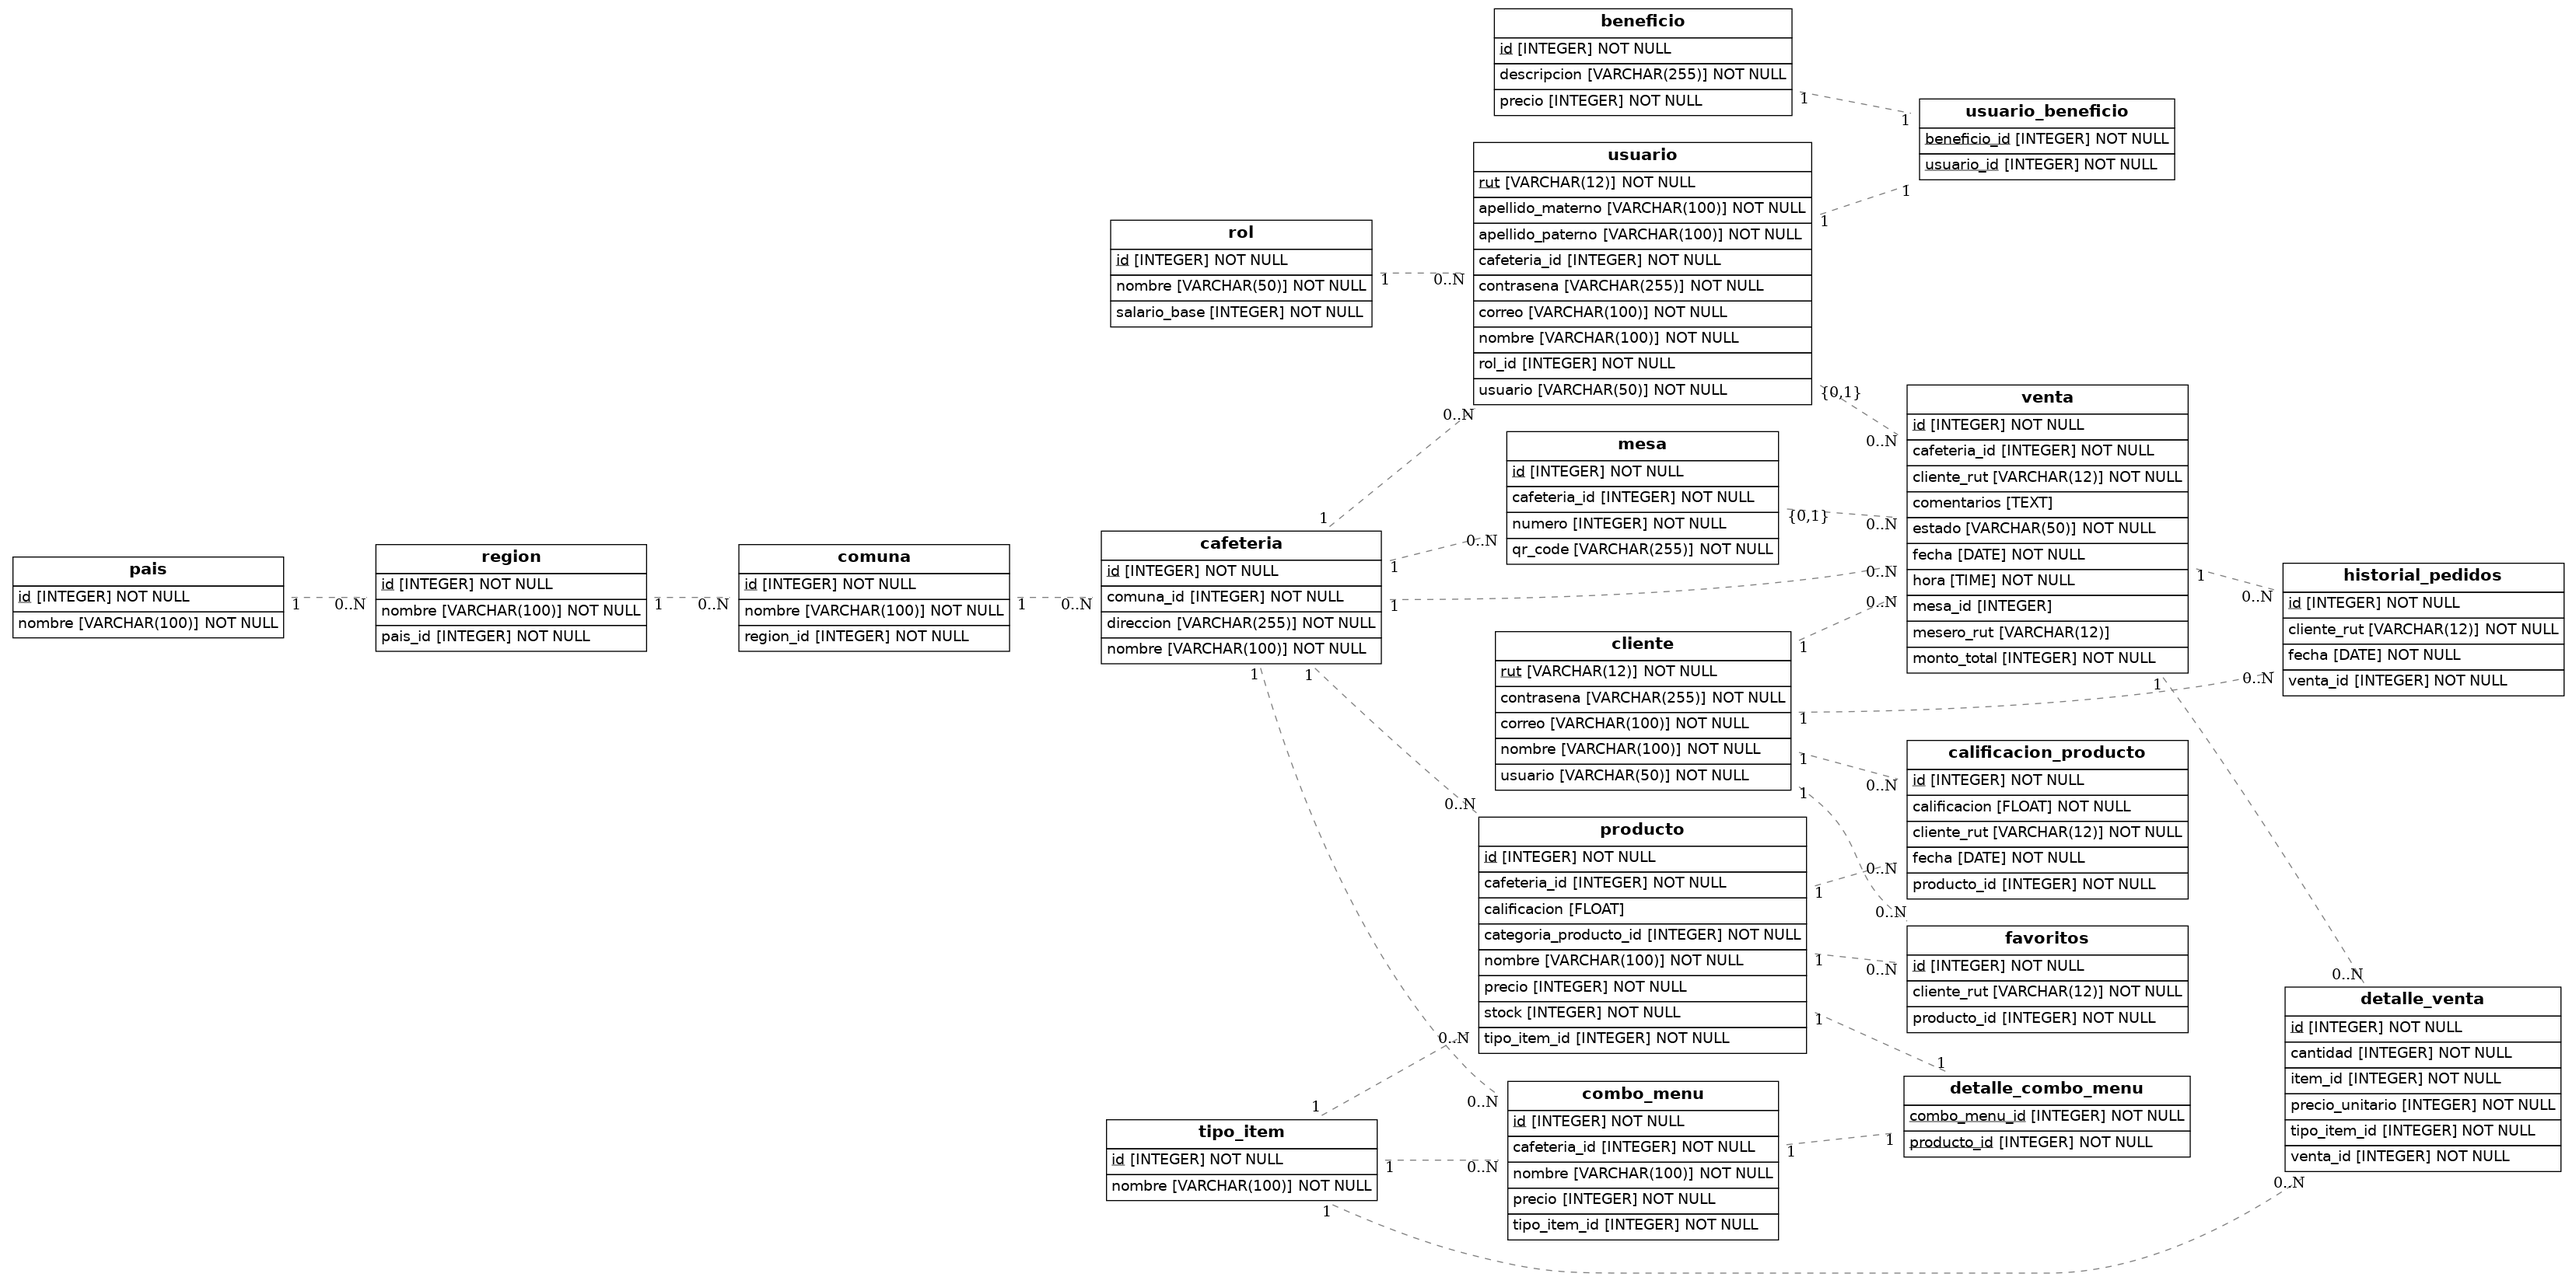
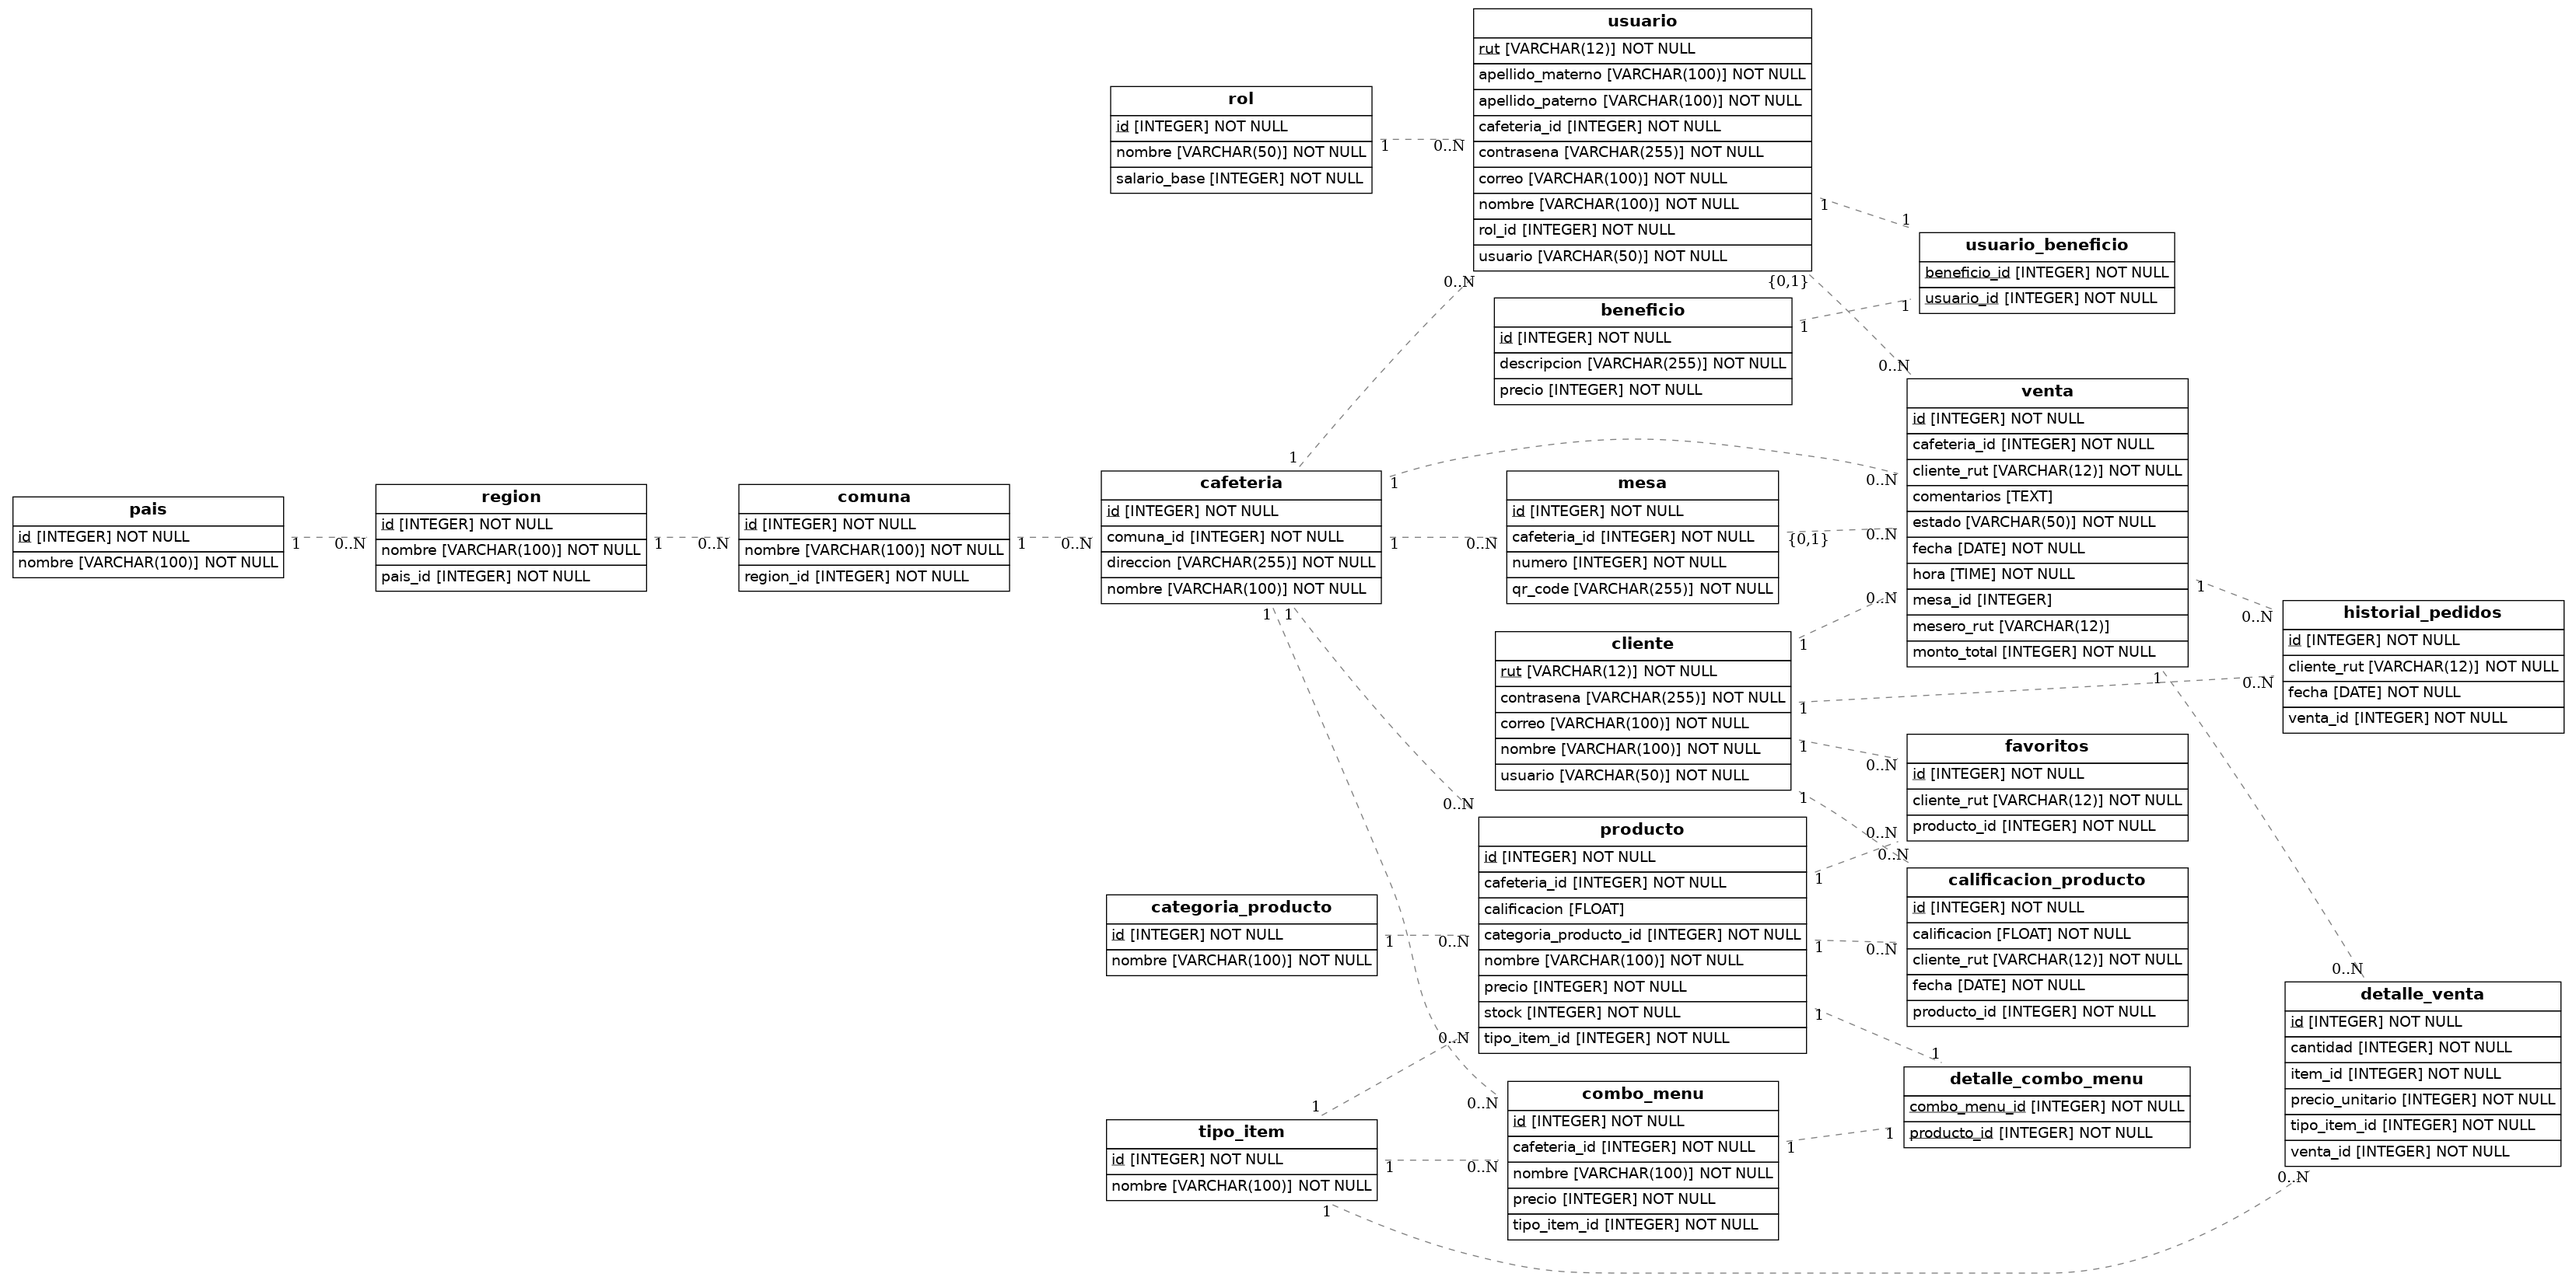
finale diagram

diff --git a/src/models.py b/src/models.py
@@ -101,7 +101,15 @@ class HistorialPedidos(Base):
     venta_id = Column(Integer, ForeignKey('venta.id'), nullable=False)
     fecha = Column(Date, nullable=False)
 
-# Clase Producto
+# Clase CategoriaProducto
+class CategoriaProducto(Base):
+    __tablename__ = 'categoria_producto'
+    id = Column(Integer, primary_key=True, autoincrement=True)
+    nombre = Column(String(100), nullable=False)
+
+    productos = relationship('Producto', back_populates='categoria_producto')
+
+# Clase Producto (modificada para la relación con CategoriaProducto)
 class Producto(Base):
     __tablename__ = 'producto'
     id = Column(Integer, primary_key=True, autoincrement=True)
@@ -110,7 +118,7 @@ class Producto(Base):
     stock = Column(Integer, nullable=False, default=0)
     
     categoria_producto_id = Column(Integer, ForeignKey('categoria_producto.id'), nullable=False)
-    categoria_producto = relationship('CategoriaProducto')
+    categoria_producto = relationship('CategoriaProducto', back_populates='productos')
 
     cafeteria_id = Column(Integer, ForeignKey('cafeteria.id'), nullable=False)
     cafeteria = relationship('Cafeteria', back_populates='productos')
@@ -118,7 +126,6 @@ class Producto(Base):
     tipo_item_id = Column(Integer, ForeignKey('tipo_item.id'), nullable=False)
     tipo_item = relationship('TipoItem')
 
-    # Campo de calificación de producto
     calificacion = Column(Float, default=0.0)  # Calificación de 0 a 5
 
 # Clase ComboMenu
